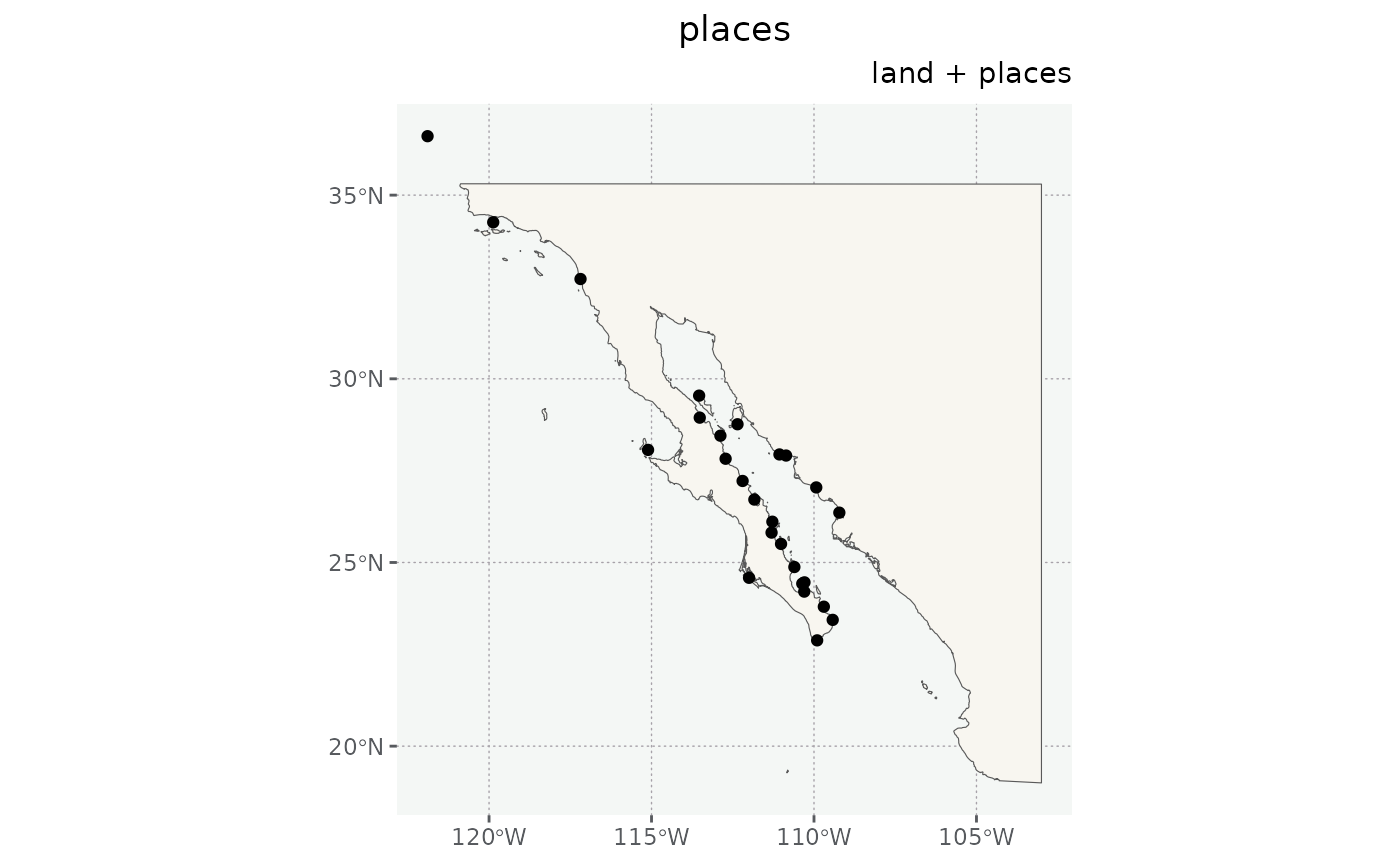
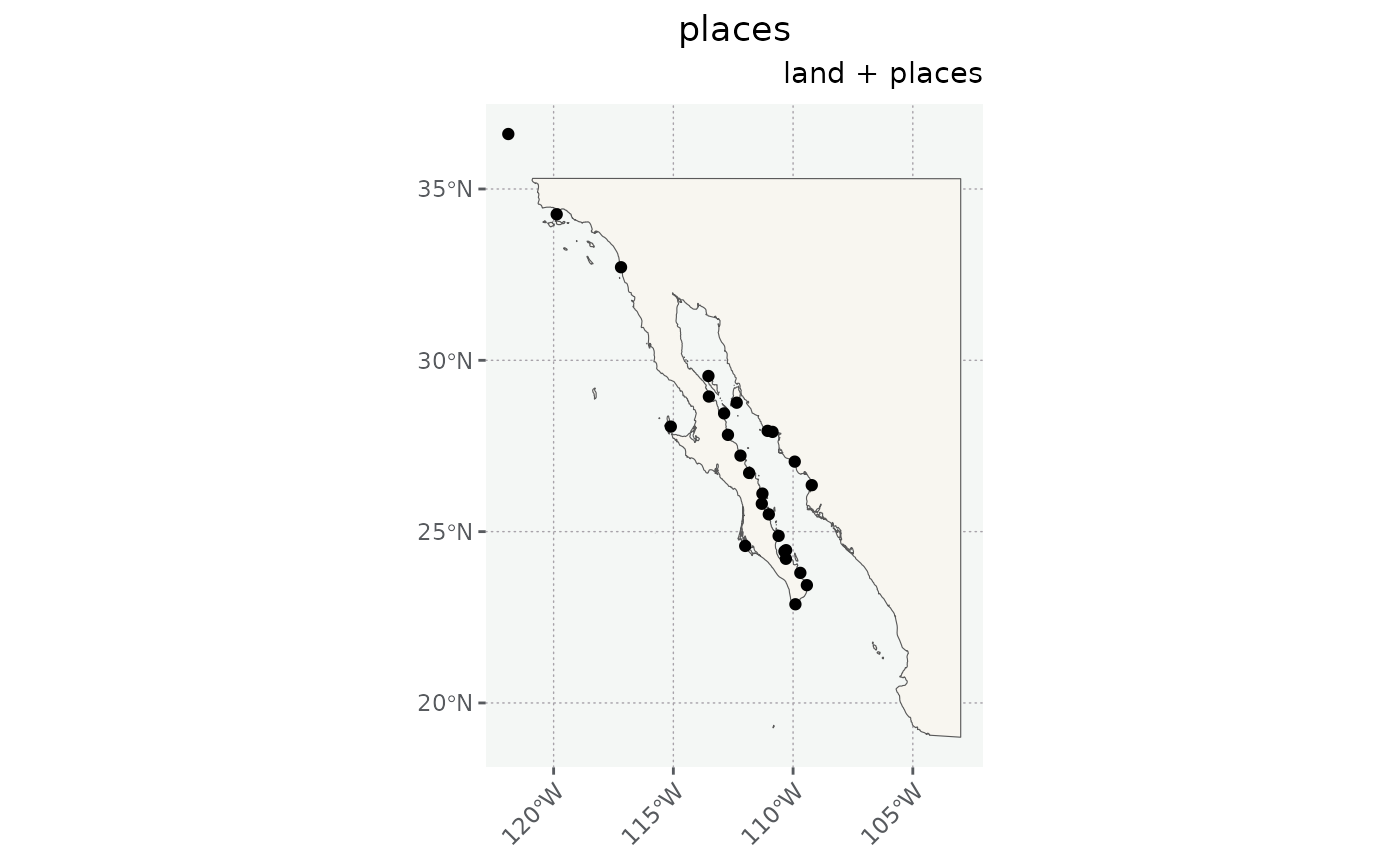
Deploying to gh-pages from @ sagesteppe/flyer@d2b45a13a2b5d91bd985054776bcd5824f2e3866 🚀

diff --git a/articles/ExploreDataSets.html b/articles/ExploreDataSets.html
@@ -128,14 +128,15 @@ the <code>pretty</code> function does not always return the requested
 <span><span class="va">theme_nautical</span> <span class="op">&lt;-</span> <span class="kw">function</span><span class="op">(</span><span class="op">)</span> <span class="op">{</span></span>
 <span>  <span class="fu"><a href="https://ggplot2.tidyverse.org/reference/theme.html" class="external-link">theme</a></span><span class="op">(</span></span>
 <span>    </span>
+<span>    aspect.ratio <span class="op">=</span> <span class="fl">4</span><span class="op">/</span><span class="fl">3</span>,</span>
 <span>    axis.title <span class="op">=</span> <span class="fu"><a href="https://ggplot2.tidyverse.org/reference/element.html" class="external-link">element_text</a></span><span class="op">(</span>colour <span class="op">=</span> <span class="st">"#222823"</span>, family <span class="op">=</span> <span class="st">"Times New Roman"</span><span class="op">)</span>,</span>
 <span>    axis.text <span class="op">=</span> <span class="fu"><a href="https://ggplot2.tidyverse.org/reference/element.html" class="external-link">element_text</a></span><span class="op">(</span>colour <span class="op">=</span> <span class="st">"#575A5E"</span>, face <span class="op">=</span> <span class="st">"italic"</span>, family <span class="op">=</span> <span class="st">"Optima"</span><span class="op">)</span>,</span>
+<span>    axis.text.x <span class="op">=</span> <span class="fu"><a href="https://ggplot2.tidyverse.org/reference/element.html" class="external-link">element_text</a></span><span class="op">(</span>hjust<span class="op">=</span> <span class="fl">1</span>, angle<span class="op">=</span><span class="fl">45</span><span class="op">)</span>,</span>
 <span>    axis.ticks <span class="op">=</span> <span class="fu"><a href="https://ggplot2.tidyverse.org/reference/element.html" class="external-link">element_line</a></span><span class="op">(</span>colour <span class="op">=</span> <span class="st">"#575A5E"</span><span class="op">)</span>,</span>
 <span>    </span>
-<span>    plot.title <span class="op">=</span> <span class="fu"><a href="https://ggplot2.tidyverse.org/reference/element.html" class="external-link">element_text</a></span><span class="op">(</span>hjust <span class="op">=</span> <span class="fl">0.5</span><span class="op">)</span>,</span>
-<span>    plot.subtitle <span class="op">=</span> <span class="fu"><a href="https://ggplot2.tidyverse.org/reference/element.html" class="external-link">element_text</a></span><span class="op">(</span>hjust <span class="op">=</span> <span class="fl">1</span><span class="op">)</span>,</span>
+<span>    plot.title <span class="op">=</span> <span class="fu"><a href="https://ggplot2.tidyverse.org/reference/element.html" class="external-link">element_text</a></span><span class="op">(</span>hjust <span class="op">=</span> <span class="fl">0.5</span>, family <span class="op">=</span> <span class="st">'Optima'</span><span class="op">)</span>,</span>
+<span>    plot.subtitle <span class="op">=</span> <span class="fu"><a href="https://ggplot2.tidyverse.org/reference/element.html" class="external-link">element_text</a></span><span class="op">(</span>hjust <span class="op">=</span> <span class="fl">1</span>, family <span class="op">=</span> <span class="st">'Optima'</span><span class="op">)</span>,</span>
 <span>    </span>
-<span>    plot.background <span class="op">=</span> <span class="fu"><a href="https://ggplot2.tidyverse.org/reference/element.html" class="external-link">element_rect</a></span><span class="op">(</span>fill <span class="op">=</span> <span class="st">"transparent"</span>, colour <span class="op">=</span> <span class="cn">NA</span><span class="op">)</span>,</span>
 <span>    panel.background <span class="op">=</span> <span class="fu"><a href="https://ggplot2.tidyverse.org/reference/element.html" class="external-link">element_rect</a></span><span class="op">(</span>fill <span class="op">=</span> <span class="st">"#F4F7F5"</span><span class="op">)</span>,</span>
 <span>    panel.border <span class="op">=</span> <span class="fu"><a href="https://ggplot2.tidyverse.org/reference/element.html" class="external-link">element_rect</a></span><span class="op">(</span>colour <span class="op">=</span> <span class="cn">NA</span>, fill <span class="op">=</span> <span class="cn">NA</span><span class="op">)</span>,</span>
 <span>    panel.grid.major <span class="op">=</span> <span class="fu"><a href="https://ggplot2.tidyverse.org/reference/element.html" class="external-link">element_line</a></span><span class="op">(</span>colour <span class="op">=</span> <span class="st">"#A7A2A9"</span>, linetype <span class="op">=</span> <span class="st">'dotted'</span>, linewidth <span class="op">=</span> <span class="fl">0.25</span><span class="op">)</span>,</span>
@@ -245,7 +246,9 @@ move them to avoid conflicts with other plot elements.</p>
 <span>  <span class="fu"><a href="https://ggplot2.tidyverse.org/reference/scale_continuous.html" class="external-link">scale_y_continuous</a></span><span class="op">(</span><span class="st">'Latitude'</span>, breaks <span class="op">=</span> <span class="va">brks</span><span class="op">$</span><span class="va">y</span><span class="op">)</span> <span class="op">+</span> </span>
 <span>  <span class="fu">theme_nautical</span><span class="op">(</span><span class="op">)</span> <span class="op">+</span> </span>
 <span>  </span>
-<span>  <span class="fu"><a href="https://ggplot2.tidyverse.org/reference/labs.html" class="external-link">labs</a></span><span class="op">(</span>title <span class="op">=</span> <span class="st">'geom_text_repel(places)'</span>, subtitle <span class="op">=</span> <span class="st">'land + places'</span><span class="op">)</span></span>
+<span>  <span class="fu"><a href="https://ggplot2.tidyverse.org/reference/labs.html" class="external-link">labs</a></span><span class="op">(</span></span>
+<span>    title <span class="op">=</span> <span class="st">'geom_text_repel(places)'</span>, </span>
+<span>    subtitle <span class="op">=</span> <span class="st">'land + places'</span><span class="op">)</span></span>
 <span></span>
 <span><span class="va">m</span></span></code></pre></div>
 <p><img src="ExploreDataSets_files/figure-html/plot%20places%20as%20text-1.png" width="700"></p>
@@ -342,10 +345,6 @@ order which layers are added to the map. We’ll still overwrite the
 variable m.</p>
 <div class="sourceCode" id="cb12"><pre class="downlit sourceCode r">
 <code class="sourceCode R"><span></span>
-<span><span class="fu"><a href="https://rdrr.io/r/graphics/plot.default.html" class="external-link">plot</a></span><span class="op">(</span><span class="va">topography</span><span class="op">)</span></span></code></pre></div>
-<p><img src="ExploreDataSets_files/figure-html/add%20topography-1.png" width="700"></p>
-<div class="sourceCode" id="cb13"><pre class="downlit sourceCode r">
-<code class="sourceCode R"><span></span>
 <span><span class="va">m</span> <span class="op">&lt;-</span> <span class="fu"><a href="https://ggplot2.tidyverse.org/reference/ggplot.html" class="external-link">ggplot</a></span><span class="op">(</span><span class="op">)</span> <span class="op">+</span> </span>
 <span>  <span class="fu"><a href="https://ggplot2.tidyverse.org/reference/ggsf.html" class="external-link">geom_sf</a></span><span class="op">(</span>data <span class="op">=</span> <span class="va">land</span>, fill <span class="op">=</span> <span class="st">'#F8F6F0'</span><span class="op">)</span> <span class="op">+</span> </span>
 <span>  <span class="fu"><a href="https://ggplot2.tidyverse.org/reference/ggsf.html" class="external-link">geom_sf</a></span><span class="op">(</span>data <span class="op">=</span> <span class="va">topography</span>, lwd <span class="op">=</span> <span class="fl">0.1</span><span class="op">)</span> <span class="op">+</span> </span>
@@ -371,9 +370,9 @@ variable m.</p>
 <span><span class="va">m</span></span>
 <span><span class="co">#&gt; Warning in st_point_on_surface.sfc(sf::st_zm(x)): st_point_on_surface may not</span></span>
 <span><span class="co">#&gt; give correct results for longitude/latitude data</span></span></code></pre></div>
-<p><img src="ExploreDataSets_files/figure-html/add%20topography-2.png" width="700"></p>
+<p><img src="ExploreDataSets_files/figure-html/add%20topography-1.png" width="700"></p>
 <p>We can plot the bathymetry data like this.</p>
-<div class="sourceCode" id="cb14"><pre class="downlit sourceCode r">
+<div class="sourceCode" id="cb13"><pre class="downlit sourceCode r">
 <code class="sourceCode R"><span><span class="fu"><a href="https://ggplot2.tidyverse.org/reference/ggplot.html" class="external-link">ggplot</a></span><span class="op">(</span><span class="op">)</span> <span class="op">+</span> </span>
 <span>  <span class="fu"><a href="https://ggplot2.tidyverse.org/reference/ggsf.html" class="external-link">geom_sf</a></span><span class="op">(</span>data <span class="op">=</span> <span class="va">land</span>, fill <span class="op">=</span> <span class="st">'#F8F6F0'</span><span class="op">)</span> <span class="op">+</span> </span>
 <span>  <span class="fu"><a href="https://ggplot2.tidyverse.org/reference/ggsf.html" class="external-link">geom_sf</a></span><span class="op">(</span>data <span class="op">=</span> <span class="va">bathymetry</span>, <span class="fu"><a href="https://ggplot2.tidyverse.org/reference/aes.html" class="external-link">aes</a></span><span class="op">(</span>color <span class="op">=</span> <span class="va">elevation</span><span class="op">)</span>, lwd <span class="op">=</span> <span class="fl">0.4</span><span class="op">)</span>  <span class="op">+</span></span>
@@ -389,7 +388,7 @@ adding the difference to the ‘topography’ data set. Or, and much to my
 liking, we can convert the polylines of bathymetry to polygons, and use
 them to color the whole ocean! With darker areas being deeper hues of
 blue.</p>
-<div class="sourceCode" id="cb15"><pre class="downlit sourceCode r">
+<div class="sourceCode" id="cb14"><pre class="downlit sourceCode r">
 <code class="sourceCode R"><span><span class="fu"><a href="https://rdrr.io/r/utils/head.html" class="external-link">head</a></span><span class="op">(</span><span class="va">bathymetry</span><span class="op">)</span></span>
 <span><span class="co">#&gt; Simple feature collection with 6 features and 1 field</span></span>
 <span><span class="co">#&gt; Geometry type: LINESTRING</span></span>
@@ -414,7 +413,7 @@ blue.</p>
 <span></span>
 <span>  <span class="fu"><a href="https://ggplot2.tidyverse.org/reference/ggsf.html" class="external-link">geom_sf</a></span><span class="op">(</span>data <span class="op">=</span> <span class="va">places</span><span class="op">)</span> <span class="op">+</span>  </span>
 <span>  <span class="fu"><a href="https://ggplot2.tidyverse.org/reference/ggsf.html" class="external-link">geom_sf</a></span><span class="op">(</span>data <span class="op">=</span> <span class="va">route</span>, <span class="fu"><a href="https://ggplot2.tidyverse.org/reference/aes.html" class="external-link">aes</a></span><span class="op">(</span>color <span class="op">=</span> <span class="va">date_arrive</span><span class="op">)</span><span class="op">)</span> <span class="op">+</span></span>
-<span>  <span class="fu"><a href="https://ggplot2.tidyverse.org/reference/ggtheme.html" class="external-link">theme_minimal</a></span><span class="op">(</span><span class="op">)</span> <span class="op">+</span> </span>
+<span>  <span class="fu">theme_nautical</span><span class="op">(</span><span class="op">)</span> <span class="op">+</span> </span>
 <span>  <span class="fu"><a href="https://ggplot2.tidyverse.org/reference/ggsf.html" class="external-link">coord_sf</a></span><span class="op">(</span>xlim <span class="op">=</span> <span class="fu"><a href="https://rdrr.io/r/base/c.html" class="external-link">c</a></span><span class="op">(</span><span class="va">bb</span><span class="op">[</span><span class="fl">1</span><span class="op">]</span>, <span class="va">bb</span><span class="op">[</span><span class="fl">3</span><span class="op">]</span><span class="op">)</span>, ylim <span class="op">=</span> <span class="fu"><a href="https://rdrr.io/r/base/c.html" class="external-link">c</a></span><span class="op">(</span><span class="va">bb</span><span class="op">[</span><span class="fl">2</span><span class="op">]</span>, <span class="va">bb</span><span class="op">[</span><span class="fl">4</span><span class="op">]</span><span class="op">)</span><span class="op">)</span></span></code></pre></div>
 <p><img src="ExploreDataSets_files/figure-html/and%20bathymetry-1.png" width="700"></p>
 </div>
@@ -427,7 +426,7 @@ cartography.</p>
 <p>A simple landcover classification data set is available as
 <code>landcover</code>. We also include some quick colors to help with
 mapping these classes.</p>
-<div class="sourceCode" id="cb16"><pre class="downlit sourceCode r">
+<div class="sourceCode" id="cb15"><pre class="downlit sourceCode r">
 <code class="sourceCode R"><span><span class="fu"><a href="https://ggplot2.tidyverse.org/reference/ggplot.html" class="external-link">ggplot</a></span><span class="op">(</span><span class="op">)</span> <span class="op">+</span> </span>
 <span>  <span class="fu"><a href="https://ggplot2.tidyverse.org/reference/ggsf.html" class="external-link">geom_sf</a></span><span class="op">(</span>data <span class="op">=</span> <span class="va">landcover</span>, <span class="fu"><a href="https://ggplot2.tidyverse.org/reference/aes.html" class="external-link">aes</a></span><span class="op">(</span>fill <span class="op">=</span> <span class="va">class</span><span class="op">)</span>, color <span class="op">=</span> <span class="cn">NA</span><span class="op">)</span> <span class="op">+</span> </span>
 <span>  <span class="fu"><a href="https://ggplot2.tidyverse.org/reference/scale_manual.html" class="external-link">scale_fill_manual</a></span><span class="op">(</span><span class="st">'Class'</span>, values <span class="op">=</span> <span class="va">lc_pal</span><span class="op">)</span> <span class="op">+</span> </span>
@@ -435,7 +434,7 @@ mapping these classes.</p>
 <p><img src="ExploreDataSets_files/figure-html/unnamed-chunk-4-1.png" width="700"></p>
 <p>Additionally, information on protected areas of Mexico are also
 included.</p>
-<div class="sourceCode" id="cb17"><pre class="downlit sourceCode r">
+<div class="sourceCode" id="cb16"><pre class="downlit sourceCode r">
 <code class="sourceCode R"><span><span class="fu"><a href="https://ggplot2.tidyverse.org/reference/ggplot.html" class="external-link">ggplot</a></span><span class="op">(</span><span class="op">)</span> <span class="op">+</span> </span>
 <span>  <span class="fu"><a href="https://ggplot2.tidyverse.org/reference/ggsf.html" class="external-link">geom_sf</a></span><span class="op">(</span>data <span class="op">=</span> <span class="va">land</span>, fill <span class="op">=</span> <span class="st">'#F8F6F0'</span><span class="op">)</span> <span class="op">+</span> </span>
 <span>  <span class="fu"><a href="https://ggplot2.tidyverse.org/reference/ggsf.html" class="external-link">geom_sf</a></span><span class="op">(</span></span>
@@ -450,10 +449,10 @@ included.</p>
 <span>    size <span class="op">=</span> <span class="fl">1.5</span></span>
 <span>    <span class="op">)</span> <span class="op">+</span> </span>
 <span></span>
-<span>  <span class="fu"><a href="https://ggplot2.tidyverse.org/reference/ggtheme.html" class="external-link">theme_minimal</a></span><span class="op">(</span><span class="op">)</span></span>
+<span>  <span class="fu">theme_nautical</span><span class="op">(</span><span class="op">)</span></span>
 <span><span class="co">#&gt; Warning in st_point_on_surface.sfc(sf::st_zm(x)): st_point_on_surface may not</span></span>
 <span><span class="co">#&gt; give correct results for longitude/latitude data</span></span>
-<span><span class="co">#&gt; Warning: ggrepel: 10 unlabeled data points (too many overlaps). Consider</span></span>
+<span><span class="co">#&gt; Warning: ggrepel: 27 unlabeled data points (too many overlaps). Consider</span></span>
 <span><span class="co">#&gt; increasing max.overlaps</span></span></code></pre></div>
 <p><img src="ExploreDataSets_files/figure-html/unnamed-chunk-5-1.png" width="700"></p>
 </div>
@@ -462,7 +461,7 @@ included.</p>
 <h2 id="putting-it-all-together">putting it all together<a class="anchor" aria-label="anchor" href="#putting-it-all-together"></a>
 </h2>
 <p>We can make an OK map using some of the details below.</p>
-<div class="sourceCode" id="cb18"><pre class="downlit sourceCode r">
+<div class="sourceCode" id="cb17"><pre class="downlit sourceCode r">
 <code class="sourceCode R"><span></span>
 <span><span class="fu"><a href="https://ggplot2.tidyverse.org/reference/ggplot.html" class="external-link">ggplot</a></span><span class="op">(</span><span class="op">)</span> <span class="op">+</span> </span>
 <span>  <span class="fu"><a href="https://ggplot2.tidyverse.org/reference/ggsf.html" class="external-link">geom_sf</a></span><span class="op">(</span>data <span class="op">=</span> <span class="va">land</span>, fill <span class="op">=</span> <span class="st">'#F8F6F0'</span><span class="op">)</span> <span class="op">+</span> </span>
@@ -473,7 +472,7 @@ included.</p>
 <span>  <span class="fu"><a href="https://ggplot2.tidyverse.org/reference/ggsf.html" class="external-link">coord_sf</a></span><span class="op">(</span>xlim <span class="op">=</span> <span class="fu"><a href="https://rdrr.io/r/base/c.html" class="external-link">c</a></span><span class="op">(</span><span class="va">bb</span><span class="op">[</span><span class="fl">1</span><span class="op">]</span>, <span class="va">bb</span><span class="op">[</span><span class="fl">3</span><span class="op">]</span><span class="op">)</span>, ylim <span class="op">=</span> <span class="fu"><a href="https://rdrr.io/r/base/c.html" class="external-link">c</a></span><span class="op">(</span><span class="va">bb</span><span class="op">[</span><span class="fl">2</span><span class="op">]</span>, <span class="va">bb</span><span class="op">[</span><span class="fl">4</span><span class="op">]</span><span class="op">)</span>, crs <span class="op">=</span> <span class="fl">4326</span><span class="op">)</span> <span class="op">+</span> </span>
 <span>  <span class="fu"><a href="https://paleolimbot.github.io/ggspatial/reference/annotation_scale.html" class="external-link">annotation_scale</a></span><span class="op">(</span><span class="op">)</span>  <span class="op">+</span> </span>
 <span>  <span class="fu"><a href="https://paleolimbot.github.io/ggspatial/reference/annotation_north_arrow.html" class="external-link">annotation_north_arrow</a></span><span class="op">(</span>which_north <span class="op">=</span> <span class="st">"true"</span>, style <span class="op">=</span> <span class="va">north_arrow_minimal</span><span class="op">)</span> <span class="op">+</span> </span>
-<span>  <span class="fu"><a href="https://ggplot2.tidyverse.org/reference/ggtheme.html" class="external-link">theme_minimal</a></span><span class="op">(</span><span class="op">)</span> </span></code></pre></div>
+<span>  <span class="fu">theme_nautical</span><span class="op">(</span><span class="op">)</span> </span></code></pre></div>
 <p><img src="ExploreDataSets_files/figure-html/unnamed-chunk-6-1.png" width="700"></p>
 </div>
   </main><aside class="col-md-3"><nav id="toc" aria-label="Table of contents"><h2>On this page</h2>
